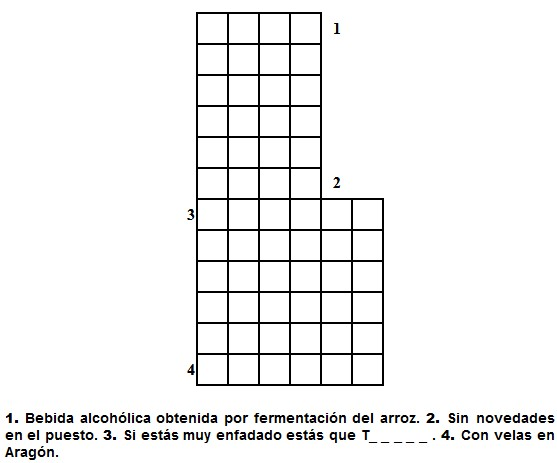
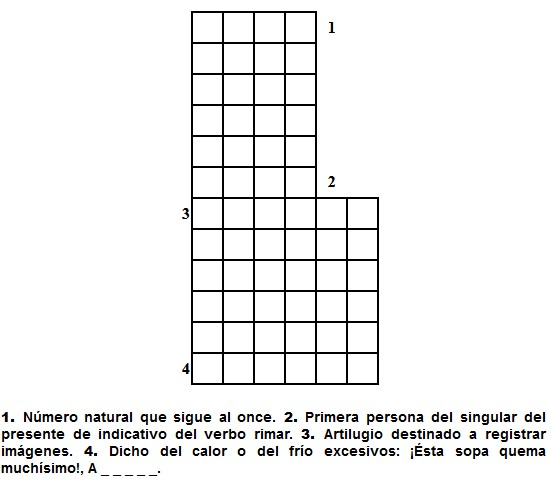
Versión pre-final
Terminar detalles y comprobar especificación requerida

Changed region(s): [[0.0, 0.0, 1.0, 0.9978]]

diff --git a/public/pasatiempos/codigo.js b/public/pasatiempos/codigo.js
@@ -83,10 +83,22 @@ diccionario = [];
 
 
         /*PARA QUE NO DE FALLO METER EN DICCIONARIO LAS PALABRAS FALTANTES DE LA SOLUCION*/
+        /*PASATIEMPO DADO*/
     //palabrDeCuatro = meterPalabraEnDiccionario("nací", palabrDeCuatro);
     //palabrDeCuatro = meterPalabraEnDiccionario("nace", palabrDeCuatro);
     //palabrDeSeis = meterPalabraEnDiccionario("remato", palabrDeSeis);
     //palabrDeSeis = meterPalabraEnDiccionario("tolero", palabrDeSeis);
+
+        /*MIS PASATIEMPOS*/
+    palabrDeCuatro = meterPalabraEnDiccionario("rimo", palabrDeCuatro);
+    palabrDeSeis = meterPalabraEnDiccionario("amarás", palabrDeSeis);
+    palabrDeSeis = meterPalabraEnDiccionario("atarás", palabrDeSeis);
+    palabrDeSeis = meterPalabraEnDiccionario("atrasa", palabrDeSeis);
+    palabrDeSeis = meterPalabraEnDiccionario("abrasa", palabrDeSeis);
+
+    
+    palabrDeSeis = meterPalabraEnDiccionario("aparto", palabrDeSeis);
+
 
 
     
@@ -459,7 +471,6 @@ function buscarPistas(){
      //Saco la palabra del campo de busqueda y la paso a minusculas
 
     letras = document.getElementById("inputPistas").value.toLowerCase();
-    console.log(letras)
     
     if(letras.length == 4){ //si las letras a buscar son 4
        pos = 0;
@@ -682,9 +693,28 @@ function meterPalabraEnDiccionario(palabra, arrayPalsDeEsaLong){
 
 
 
+/*PRIMERO COMPROBAMOS SI COMPLETO Y DESPUES COTEJAMOS LA SOLUCIÓN*/
 
 function estaPasatiempoCompleto(){
+    
+    //antes de llamar a comprobar la solucion hay que comprobar que no haya casillas sin rellenar
+    formulario = document.getElementById("tablaJuego").elements; //cojo el formulario que tiene los inputs que forman el tablero
 
+    for(i = 0 ; i < formulario.length ; i++){
+        
+        input = formulario.item(i); //cojo cada elemento input del formulario
+        contenidoCasilla = input.value;
+
+        if(contenidoCasilla == ""){
+
+            alert("Existen casillas vacantes. Por favor, debe rellenarlas todas para poder dar solución al pasatiempo.");
+            return;
+
+        }
+
+    }
+
+    comprobarPasatiempo(); //si se llega a aquí, es porque todas están completas, entonces SI comrpuebo
 
 
 }
@@ -694,9 +724,8 @@ function peticionSolucion(URL){
     //Crea un nuevo objeto XMLHttpRequest
 var xhr = new XMLHttpRequest();
 var pasatiempo = URL.substring(URL.length-16, URL.length-5);
-var url = "http://localhost:5000/soluciones/"+pasatiempo; //
+var url = "http://localhost:5000/soluciones/"+pasatiempo; //Del otro método traigo la URL de la página que estoy viendo para coger de ahí el pasatiempo y adjuntarselo a la de la peticion de la carpeta soluciones (debemos pedir a una url existente dentro del server)
 
-console.log(url);
 
 //Esto se llamará después de que la respuesta se reciba
 
@@ -744,6 +773,9 @@ function comprobarPasatiempo(){
     //recorro el form con un bucle y voy sacando las lineas y pasandoselas al metodo que me comprueba si la palabra esta en el diccionario
     contador = 0;
     str = "";
+    iter = 1;
+    palabrasFalladas = [];
+    pasatiempoCorrecto = true;
 
     formulario = document.getElementById("tablaJuego").elements; //recorro el formulario que tiene los inputs que forman el tablero
 
@@ -756,25 +788,19 @@ function comprobarPasatiempo(){
 
             if(contador == 4){ //ya tenemos una palabra completa (4 letras concatenadas)
                
-
-
-
-
-
-
-
-
-
-
-
-
-
-
+                /*Como recorremos por orden, puedo seguir el mismo orden del objeto solución*/
+                        //objeto["clave"] equivale a objeto.clave
+                if(str.toLowerCase() != solucionPasatiempo["Fila"+iter]){ //la palabra no corresponde con la palabra solucion 
+                    //palabra incorrecta
+                    palabrasFalladas.push(str.toLowerCase()); //anexa por el final
+                    pasatiempoCorrecto = false;
+                }
 
 
 
                 str = ""; //limpio la palabra porque ya la validé con el diccionario
                 contador = 0;
+                iter++; //paso a la siguiente fila de la solucion que estoy mirando
             }
         }
 
@@ -789,89 +815,42 @@ function comprobarPasatiempo(){
 
             if(contador == 6){ //ya tenemos una palabra
 
+                /*Como recorremos por orden, puedo seguir el mismo orden del objeto solución*/
+
+                if(str.toLowerCase() != solucionPasatiempo["Fila"+iter]){ //la palabra no corresponde con la palabra solucion
+                    //palabra incorrecta
+                    palabrasFalladas.push(str.toLowerCase()); //anexa por el final
+                    pasatiempoCorrecto = false;
+                }
 
 
-
-
-
-
-
-
-
-
-
-
-
+                
                 str = ""; //limpio la palabra porque ya la validé con el diccionario
                 contador = 0;
+                iter++; //paso a la siguiente fila de la solucion que estoy mirando
 
             }
         }
     
-    //CAMINO DE ÉXITO (todas las palabras estaban en el diccionario):
-    pistasCorrectas = comprobarPistas();
-    solsIntermCorrectas = comprobarSolsIntermedias();
-    if(pistasCorrectas && solsIntermCorrectas){
-        alert("Las cuatro pistas 1,2,3,4 son correctas.\nLas transformaciones entre ellas son correctas.\nTodas las palabras pertenecen al diccionario.\n ¡¡¡FELICIDADES!!!");
-    }else if(!pistasCorrectas && !solsIntermCorrectas){ //las dos son falsas
-        alert("Algunas de las cuatro pistas 1,2,3,4 NO son correctas.\nLas transformaciones entre ellas NO son correctas.\nTodas las palabras pertenecen al diccionario.\n ¡¡¡FELICIDADES!!!");
-    
-    }else if(pistasCorrectas == false){
-        alert("Algunas de las cuatro pistas 1,2,3,4 NO son correctas.\nLas transformaciones entre ellas son correctas.\nTodas las palabras pertenecen al diccionario.\n ¡¡¡FELICIDADES!!!");
+    //Ya tengo comprobado con la solucion todo el pasatiempo y guardadas, si procede, las palabras erróneas
 
-    }else if(solsIntermCorrectas == false){
-        alert("Las cuatro pistas 1,2,3,4 son correctas.\nLas transformaciones entre ellas NO son correctas.\nTodas las palabras pertenecen al diccionario.\n ¡¡¡FELICIDADES!!!");
+    if(pasatiempoCorrecto == false){
+        //el pasatiempo está mal
 
-    }
+        alert("La solución no es correcta, revise las siguientes palabras: \n"+palabrasFalladas); //pinto todo el array que las recopila
 
-
-
-}
-
-
-/*FUNCIONALIDAD EXTRA: COMPROBAR LAS DEFINICIONES*/
-function comprobarPistas(){
-    //verifica que las palabras introducidas en las pistas corresponden con las definiciones dadas
-    pistasBuenas = ["CLAN","PENA","REMATO","TORERO"];
-
-    error = "Pistas Incorrectas: ";
-
-    pista1 = document.getElementById("a1").value + document.getElementById("b1").value + document.getElementById("c1").value + document.getElementById("d1").value;
-    pista2 = document.getElementById("a6").value + document.getElementById("b6").value + document.getElementById("c6").value + document.getElementById("d6").value;
-    pista3 = document.getElementById("a7").value + document.getElementById("b7").value + document.getElementById("c7").value + document.getElementById("d7").value + document.getElementById("e7").value + document.getElementById("f7").value;
-    pista4 = document.getElementById("a12").value + document.getElementById("b12").value + document.getElementById("c12").value + document.getElementById("d12").value + document.getElementById("e12").value + document.getElementById("f12").value;
-
-    if(pista1 != pistasBuenas[0]){  //voy concatenando un mensaje donde indico las pistas erroneas
-        error = error + "1 ";
-    }
-    if(pista2 != pistasBuenas[1]){
-        error = error + "2 ";
-    }
-    if(pista3 != pistasBuenas[2]){
-        error = error + "3 ";
-
-    }
-    if(pista4 != pistasBuenas[3]){
-        error = error + "4 ";
-
-    }
-
-    if(error.length != 20){
-       alert(error);
-    }
-
-    if(error.length == 20){
-        //Las cuatro pistas son correctas
-        return true;
     }else{
-        return false;
+
+        alert("¡¡FELICIDADES!! La solución es correcta, has completado el pasatiempo.");
+
     }
-
-
+    
 
 }
 
-/*FUNCIONALIDAD EXTRA: COMPROBAR PALABRAS INTERMEDIAS*/
+
+/*
+//FUNCIONALIDAD EXTRA: COMPROBAR PALABRAS INTERMEDIAS
 function comprobarSolsIntermedias(){
 
     formulario = document.getElementById("tablaJuego").elements; //recorro el formulario que tiene los inputs que forman el tablero
@@ -879,7 +858,7 @@ function comprobarSolsIntermedias(){
     i = 0;
     fila = 1;
    
-        /*voy a mirar 3 a 3 las palabras para ver si van siendo correctas según la descripcion que se nos da*/
+        //voy a mirar 3 a 3 las palabras para ver si van siendo correctas según la descripcion que se nos da
 
     while(true){ 
 
@@ -991,6 +970,7 @@ function comprobarSolsIntermedias(){
     return true;
 }
 
+
 function siguienteCambiadaUnaLetra(palabra, formulario, pos, longPalabra){
 
     sigPalabra = "";
@@ -1017,6 +997,9 @@ function siguienteCambiadaUnaLetra(palabra, formulario, pos, longPalabra){
     return true;
 
 }
+*/
+
+
 
 
 var pasatiempoLocal = "";

diff --git a/public/index.html b/public/index.html
@@ -38,7 +38,7 @@
       <a href="pasatiempos/pasatiempo2.html"><img src="pasatiempo2.jpg" alt="pasatiempo2" style="width:100%" class="w3-hover-opacity"></a>
       <div class="w3-container w3-white">
         <p><b>Pasatiempo 2</b></p>
-        <p>1. Bebida alcohólica obtenida por fermentación del arroz.<br>2. Sin novedades en el puesto.<br>3. Si estás muy enfadado estás que T_ _ _ _ _ .<br>4. Echo a un lado.</p>
+        <p>1. Número natural que sigue al once.<br>2. Primera persona del singular del presente de indicativo del verbo rimar.<br>3. Artilugio destinado a registrar imágenes.<br>4. Dicho del calor o del frío excesivos: ¡Ésta sopa quema muchísimo!, A _ _ _ _ _.</p>
       </div>
     </div>
     <div class="w3-third w3-container w3-margin-bottom">

diff --git a/public/pasatiempos/pasatiempo1.html b/public/pasatiempos/pasatiempo1.html
@@ -125,11 +125,13 @@
 
 
 
-<input type="submit" class="Boton1" id="botonComprobar" value="Comprobar&#10;Pasatiempo" onclick="estaPasatiempoCompleto();comprobarPasatiempo()">
+<input type="submit" class="Boton1" id="botonComprobar" value="Comprobar&#10;Solución" onclick="estaPasatiempoCompleto()">
 <input type="submit" class="Boton1" id="botonLimpiar" value="Limpiar&#10;Tablero" onclick="limpiarTablero()">
 <input type="submit" class="Boton1" id="botonLimpiar" value="Borrar&#10;Alm. Local" onclick="confirmacionBorrado()"><br><br>
 
-
+<form action="http://localhost:5000">
+    <input type="submit" class="Boton2" id="botonLimpiar" value="MENU PRINCIPAL"><br><br>
+</form>
 
 <label for="inputPistas" id="labelInputPistas">Buscar Palabras En El Diccionario</label>
 

diff --git a/public/pasatiempos/pasatiempo2.html b/public/pasatiempos/pasatiempo2.html
@@ -125,10 +125,14 @@
 
 
 
-<input type="submit" class="Boton1" id="botonComprobar" value="Comprobar&#10;Pasatiempo" onclick="comprobarPasatiempo()">
+<input type="submit" class="Boton1" id="botonComprobar" value="Comprobar&#10;Solución" onclick="estaPasatiempoCompleto()">
 <input type="submit" class="Boton1" id="botonLimpiar" value="Limpiar&#10;Tablero" onclick="limpiarTablero()">
 <input type="submit" class="Boton1" id="botonLimpiar" value="Borrar&#10;Alm. Local" onclick="confirmacionBorrado()"><br><br>
 
+
+<form action="http://localhost:5000">
+    <input type="submit" class="Boton2" id="botonLimpiar" value="MENU PRINCIPAL"><br><br>
+</form>
 
 
 <label for="inputPistas" id="labelInputPistas">Buscar Palabras En El Diccionario</label>

diff --git a/public/pasatiempos/pasatiempo3.html b/public/pasatiempos/pasatiempo3.html
@@ -126,11 +126,13 @@
 
 
 
-<input type="submit" class="Boton1" id="botonComprobar" value="Comprobar&#10;Pasatiempo" onclick="comprobarPasatiempo()">
+<input type="submit" class="Boton1" id="botonComprobar" value="Comprobar&#10;Solución" onclick="estaPasatiempoCompleto()">
 <input type="submit" class="Boton1" id="botonLimpiar" value="Limpiar&#10;Tablero" onclick="limpiarTablero()">
 <input type="submit" class="Boton1" id="botonLimpiar" value="Borrar&#10;Alm. Local" onclick="confirmacionBorrado()"><br><br>
 
-
+<form action="http://localhost:5000">
+    <input type="submit" class="Boton2" id="botonLimpiar" value="MENU PRINCIPAL"><br><br>
+</form>
 
 <label for="inputPistas" id="labelInputPistas">Buscar Palabras En El Diccionario</label>
 

diff --git a/index.js b/index.js
@@ -33,6 +33,12 @@ servidor.get('/soluciones/:idPasatiempo', (request, response) =>{
 //despues de verificar los enrutamientos, despliego hacia el cliente la página principal
 servidor.use(express.static('public'));
 
+
+
+
+
+
+
 //Ponemos en marcha a escuchar el server
 servidor.listen(servidor.get('puertoServidor'), () => {
     console.log('Servidor escuchando en el puerto ' + servidor.get('puertoServidor'));

diff --git a/public/pasatiempos/estilo.css b/public/pasatiempos/estilo.css
@@ -137,6 +137,17 @@ h2{
 }
 
 
+.Boton2{
+    font-size: 15px;
+    padding: 8px; /*alto boton*/
+    width: 92%;
+    background-color: #1b7f9b; 
+    border: none; /*sin borde*/
+    color: white; /*color del texto*/
+    text-align: center; /*alineado en el centro del boton*/
+    border-radius: 8px; /*borde redondeado*/
+}
+
 
 
 
